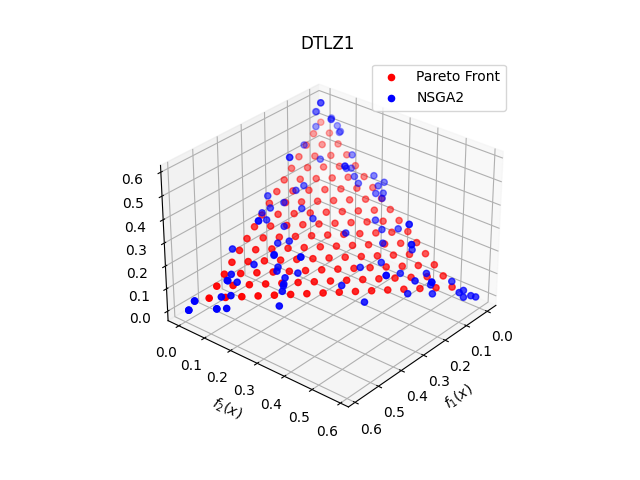
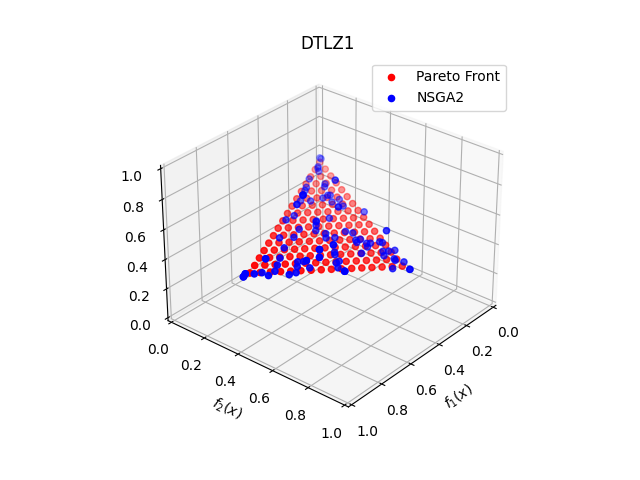
add crowding distance

diff --git a/mcga/model.py b/mcga/model.py
@@ -3,6 +3,8 @@ from nsga2.population import Population
 from nsga2.moop import MOOP
 from nsga2.utils import *
 from itertools import product
+import matplotlib.pyplot as plt
+import mpl_toolkits.mplot3d.axes3d as axes3d
 
 
 class MCGA(NSGA2):
@@ -40,6 +42,8 @@ class MCGA(NSGA2):
         self.cached_population: Population = Population()
         self.front_frequency_difference: float = np.inf
         self.front_frequency_threshold: float = front_frequency_threshold
+
+        self.fig = plt.figure(figsize=(10, 10))
 
     def divide_planes(self, population: Population):
         """
@@ -135,6 +139,11 @@ class MCGA(NSGA2):
             else:
                 print(f"Error: Member {member.polar_objective_values[1:]} not in any sector")
 
+        sectors = [sectors[i] for i in range(len(sectors)) if len(sliced_population[i]) > 0]
+        sliced_population = [slc for slc in sliced_population if len(slc) > 0]
+
+        # self.plot_monte_carlo(sliced_population, sectors)
+
         return sliced_population
 
     def mc_nds(self, sliced_population: list[Population]) -> None:
@@ -146,7 +155,41 @@ class MCGA(NSGA2):
 
         for population_slice in sliced_population:
             # print("Slice:", population_slice)
-            self.fast_non_dominated_sort(population_slice)
+            front = self.fast_non_dominated_sort(population_slice)
+
+    @classmethod
+    def crowding_distance(cls, population: Population, num_objectives: int) -> None:
+        """
+        Compute the crowding distance of the members in the population
+        :param population: The population
+        :param num_objectives: The number of objectives
+        """
+
+        # sort the population based on the front values
+
+        max_front_value = np.max([member.front_value for member in population.population])
+        min_front_value = np.min([member.front_value for member in population.population])
+
+        for member in population.population:
+            member.crowding_distance = 0.0
+
+        # divide the population into parts based on the front values
+        front_value_range = max_front_value - min_front_value
+        num_parts = 10
+        parts_intervals = [
+            min_front_value + i * front_value_range / num_parts
+            for i in range(num_parts + 1)
+        ]
+        parts = [[] for _ in range(num_parts)]
+        for member in population.population:
+            for i in range(num_parts):
+                if parts_intervals[i] <= member.front_value < parts_intervals[i + 1]:
+                    parts[i].append(member)
+                    break
+
+        # compute the crowding distance for each part
+        for part in parts:
+            cls.compute_crowding_distance(part, num_objectives)
 
     def run_monte_carlo_step(self, population: Population = None) -> None:
         """
@@ -214,6 +257,20 @@ class MCGA(NSGA2):
 
         return offsprings
 
+    def normalize_front_frequency(self, population: Population = None) -> None:
+        """
+        Normalize the front frequency of the population
+        :param population: The population
+        """
+
+        if population is None:
+            population = self.population
+
+        front_frequency = np.array([member.front_frequency for member in population])
+        front_frequency = front_frequency / np.linalg.norm(front_frequency, ord="fro")
+        for i in range(len(population)):
+            population.population[i].front_frequency = front_frequency[i]
+
     def run_generation(self) -> None:
         """
         Run a generation of the algorithm
@@ -232,6 +289,8 @@ class MCGA(NSGA2):
             self.compute_front_frequency_difference(R, cached_population)
 
         self.front_frequency_difference = np.inf
+        self.normalize_front_frequency(R)
+        self.crowding_distance(R, self.moop.num_objectives)
 
         sorted_R = sorted(R.population, reverse=True)
 
@@ -250,9 +309,58 @@ class MCGA(NSGA2):
             self.compute_front_frequency_difference()
 
         self.front_frequency_difference = np.inf
+        self.normalize_front_frequency()
+        self.crowding_distance(self.population, self.moop.num_objectives)
         self.population = Population(sorted(self.population.population, reverse=True))
 
         for i in range(self.num_generation):
             self.run_generation()
             print(f"Generation {i + 1} done")
             self.plot_population_frame(i + 1, f"gif_images/generation_{i + 1}.png")
+
+    def plot_monte_carlo(self, sliced_population: list[Population], sectors) -> None:
+
+        # plot the polar sector lines in the polar space
+
+        dim = self.moop.num_objectives
+        self.fig.clear()
+
+        if dim == 2:
+            ax = self.fig.add_subplot(projection="polar")
+            for sector in sectors:
+                for i in range(len(sector)):
+                    ax.plot(
+                        sector[0][0] * np.ones(300),
+                        np.arange(0, 3, 0.01),
+                        color="red",
+                        linewidth=0.5,
+                    )
+                    ax.plot(
+                        sector[0][1] * np.ones(300),
+                        np.arange(0, 3, 0.01),
+                        color="red",
+                        linewidth=0.5,
+                    )
+
+        else:
+            ax = self.fig.add_subplot(111, projection="3d")
+            for sector in sectors:
+                theta, phi = sector[1][0], sector[1][1]
+                r = np.arange(0, 100, 0.01)
+                X = r * np.sin(phi) * np.cos(theta)
+                Y = r * np.sin(phi) * np.sin(theta)
+                Z = r * np.cos(phi)
+                ax.plot(X, Y, Z, color="red", linewidth=0.5)
+
+        # print(len(sliced_population))
+
+        # for slice, sector in zip(sliced_population, sectors):
+        # print(sector)
+        # print(*[member.polar_objective_values[1:] for member in slice.population])
+
+        # print("\n###############################\n")
+
+        for population in sliced_population:
+            self.plot_population(ax, population)
+
+        plt.pause(0.01)

diff --git a/nsga2/model.py b/nsga2/model.py
@@ -3,7 +3,7 @@ from .moop import MOOP
 from .member import Member
 from .population import Population
 import matplotlib.pyplot as plt
-from .utils import np
+from .utils import np, generate_color
 
 
 class NSGA2:
@@ -26,14 +26,14 @@ class NSGA2:
     """
 
     def __init__(
-        self,
-        moop: MOOP,
-        num_generation: int,
-        population_size: int,
-        crossover_probability: float = 0.9,
-        tournament_size: int = 2,
-        eta_crossover: float = 1.0,
-        eta_mutation: float = 1.0,
+            self,
+            moop: MOOP,
+            num_generation: int,
+            population_size: int,
+            crossover_probability: float = 0.9,
+            tournament_size: int = 2,
+            eta_crossover: float = 1.0,
+            eta_mutation: float = 1.0,
     ):
         self.moop = moop
         self.num_generation = num_generation
@@ -126,7 +126,7 @@ class NSGA2:
 
     @classmethod
     def compute_crowding_distance(
-        cls, front: list[Member], num_objectives: int
+            cls, front: list[Member], num_objectives: int
     ) -> None:
         """
         Compute the crowding distance for a front
@@ -346,7 +346,23 @@ class NSGA2:
 
         # compute the diversity of the population
         diversity = (df + dl + np.sum(np.abs(distances - avg_distance))) / (
-            df + dl + (self.population_size - 1) * avg_distance
+                df + dl + (self.population_size - 1) * avg_distance
         )
 
         return diversity
+
+    def plot_population(self, ax, population: Population = None) -> None:
+        if population is None:
+            population = self.population
+
+        dim = self.moop.num_objectives
+
+        objective_values = np.array([member.polar_objective_values for member in population])
+
+        if dim == 2:
+            ax.scatter(objective_values[:, 1], objective_values[:, 0], color=generate_color(), s=10, alpha=0.7)
+        elif dim == 3:
+            X = objective_values[:, 0] * np.sin(objective_values[:, 2]) * np.cos(objective_values[:, 1])
+            Y = objective_values[:, 0] * np.sin(objective_values[:, 2]) * np.sin(objective_values[:, 1])
+            Z = objective_values[:, 0] * np.cos(objective_values[:, 2])
+            ax.scatter(X, Y, Z, color=generate_color(), s=10, alpha=0.7)

diff --git a/nsga2/member.py b/nsga2/member.py
@@ -116,21 +116,45 @@ class Member(object):
     #         return self.crowding_distance > other.crowding_distance
     #     return False
 
+    # def __gt__(self, other):
+    #     for x, y in zip(self.front_frequency, other.front_frequency):
+    #         if x > y:
+    #             return True
+    #         if x < y:
+    #             return False
+    #     return False
+
+    @property
+    def front_value(self):
+        front_value = 0.0
+        c = 1.0
+        for i in range(len(self.front_frequency)):
+            front_value += self.front_frequency[i] * c
+            c *= 0.8
+        return front_value
+
     def __gt__(self, other):
-        for x, y in zip(self.front_frequency, other.front_frequency):
-            if x > y:
-                return True
-            if x < y:
-                return False
+
+        # print(self.front_value, self.front_value - other.front_value)
+        if (self.front_value - other.front_value) > 0.001:
+            # print("########################")
+            return True
+        # print("******************************")
+        if self.front_value == other.front_value:
+            return self.crowding_distance > other.crowding_distance
         return False
+
+    def __eq__(self, other):
+        return (self.front_value - other.front_value) < 0.001 \
+               and self.crowding_distance == other.crowding_distance
 
     # def __eq__(self, other):
     #     return self._rank == other.rank and self.crowding_distance == other.crowding_distance
 
-    def __eq__(self, other):
-        return all(
-            [x == y for x, y in zip(self.front_frequency, other.front_frequency)]
-        )
+    # def __eq__(self, other):
+    #     return all(
+    #         [x == y for x, y in zip(self.front_frequency, other.front_frequency)]
+    #     )
 
     def __repr__(self):
         return (

diff --git a/zdt_test.py b/zdt_test.py
@@ -18,7 +18,7 @@ def main():
     f1 = lambda x: x[0]
     g = lambda x: 1 + 9 * sum(x[1:]) / (len(x) - 1)
     f2 = lambda x: g(x) * (
-        1 - math.sqrt(x[0] / g(x)) - (x[0] / g(x)) * math.sin(10 * math.pi * x[0])
+            1 - math.sqrt(x[0] / g(x)) - (x[0] / g(x)) * math.sin(10 * math.pi * x[0])
     )
     objectives = [f1, f2]
 
@@ -43,6 +43,7 @@ def main():
     print("Diversity metric: ", diversity)
 
     # plot the results and save the figure
+    fig = plt.figure(figsize=(10, 10))
     plt.scatter(
         problem.pareto_front()[:, 0],
         problem.pareto_front()[:, 1],
@@ -78,6 +79,7 @@ def main():
     print("Diversity metric: ", diversity)
 
     # plot the results and save the figure
+    fig = plt.figure(figsize=(10, 10))
     plt.scatter(
         problem.pareto_front()[:, 0],
         problem.pareto_front()[:, 1],

diff --git a/dtlz_test.py b/dtlz_test.py
@@ -64,6 +64,9 @@ def main():
     ax.set_zlabel("$f_3(x)$")
     plt.title(problem_name.upper())
     ax.view_init(30, 40)
+    ax.set_xlim(0, 1)
+    ax.set_ylim(0, 1)
+    ax.set_zlim(0, 1)
     plt.legend()
     plt.savefig(f"images/{problem_name}_mcga.png")
     plt.close()
@@ -103,6 +106,9 @@ def main():
     plt.ylabel("$f_2(x)$")
     plt.title(problem_name.upper())
     ax.view_init(30, 40)
+    ax.set_xlim(0, 1)
+    ax.set_ylim(0, 1)
+    ax.set_zlim(0, 1)
     plt.legend()
     plt.savefig(f"images/{problem_name}_nsga.png")
     plt.close()

diff --git a/report/MonteCarloMethod.md b/report/MonteCarloMethod.md
@@ -48,9 +48,9 @@ The result after multiple runs of the Monte-Carlo method is shown in the followi
 population of 50 individuals and 120 generations, Monte-Carlo method gave better results, even without the crowding
 distance calculation.
 
-MCGA            |  NSGA-II
-:-------------------------:|:-------------------------:
-![MCGA](../images/zdt3_mcga.png)  |  ![NSGA-II](../images/zdt3_nsga.png)
+|               MCGA               |               NSGA-II               |
+|:--------------------------------:|:-----------------------------------:|
+| ![MCGA](../images/zdt3_mcga.png) | ![NSGA-II](../images/zdt3_nsga.png) |
 
 The implementation for this approach is available in branch `approach1.1` on teh github repository.
 
@@ -61,3 +61,17 @@ from the crowding distance used in the NSGA-II algorithm. The crowding distance 
 the points that are far from the other points in the pareto front. The crowding distance we use here, trys to populate
 the points with high rank and which are far from others.
 
+### Approach 2 (Relaxing the Elitism Conditions and Adding Crowding Distance)
+
+In this approach, we relax the elitism conditions and add the crowding distance calculation to the Monte-Carlo method.
+We consider the individuals with front frequencies having close value as equal. Then compute the crowding distance for
+these individuals and select the individuals with the highest crowding distance.
+
+We define the value of a front frequency as follows:
+
+$$
+v_i = \sum_j^N c_i \times f_{ij}
+$$
+
+Where $f_{ij}$ is the frequency of the front $j$ for individual $i$ and $c_i$ is a constant which is bigger for the
+first front, the second front, and so on.
